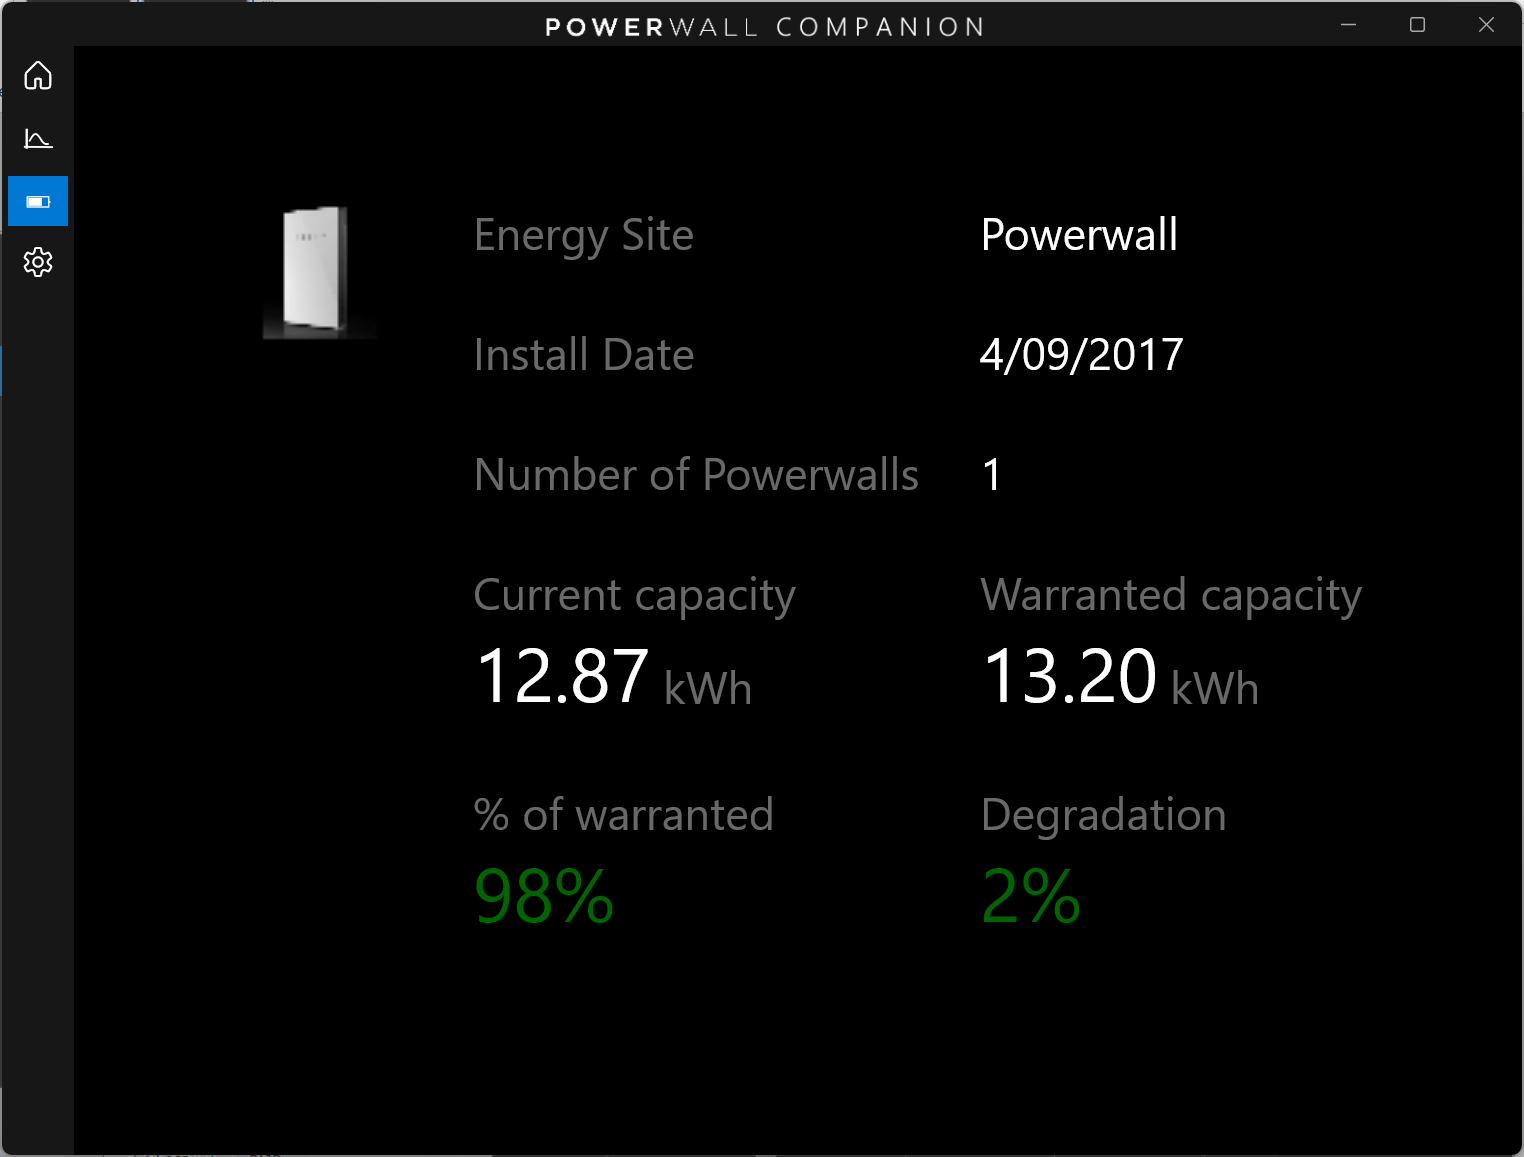
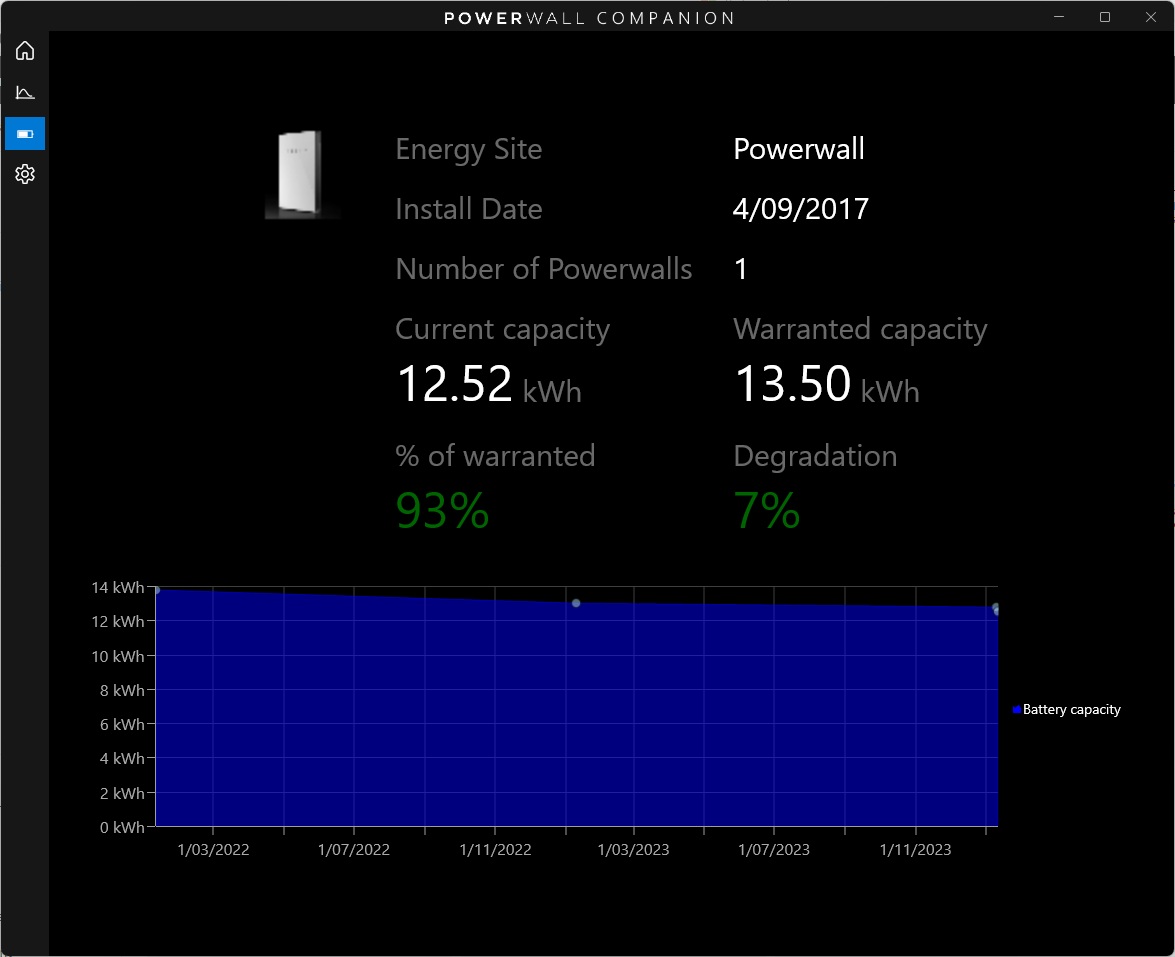
5.2 release - battery histroy

diff --git a/PowerwallCompanion/BatteryInfoPage.xaml b/PowerwallCompanion/BatteryInfoPage.xaml
@@ -17,8 +17,12 @@
         <converters:FalseToVisibilityCollapsedConverter x:Key="FalseToVisibilityCollapsedConverter"/>
         <converters:TrueToVisibilityCollapsedConverter x:Key="TrueToVisibilityCollapsedConverter"/>
     </Page.Resources>
-    
-    <Grid>
+
+    <Grid VerticalAlignment="Center">
+        <Grid.RowDefinitions>
+            <RowDefinition Height="Auto"/>
+            <RowDefinition />
+        </Grid.RowDefinitions>
         <VisualStateManager.VisualStateGroups>
             <VisualStateGroup x:Name="VisualStateGroup">
                 <VisualState x:Name="NarrowView">
@@ -39,7 +43,7 @@
                 </VisualState>
             </VisualStateGroup>
         </VisualStateManager.VisualStateGroups>
-        <Grid Grid.Row="0" HorizontalAlignment="Center" VerticalAlignment="Center" ColumnSpacing="40" RowSpacing="20">
+        <Grid Grid.Row="0" HorizontalAlignment="Center" VerticalAlignment="Center" ColumnSpacing="40" RowSpacing="20" Margin="20">
             <Grid.ColumnDefinitions>
                 <ColumnDefinition Width="120" x:Name="column1"/>
                 <ColumnDefinition Width="*"/>
@@ -51,7 +55,6 @@
                 <RowDefinition Height="Auto" />
                 <RowDefinition Height="Auto" />
                 <RowDefinition Height="Auto" />
-                <RowDefinition Height="*" />
             </Grid.RowDefinitions>
             
             <Image Source="Assets/StoreLogo.png" Grid.Row="0" Grid.RowSpan="2" Grid.Column="0"  Width="100" HorizontalAlignment="Right" VerticalAlignment="Top" />
@@ -93,52 +96,52 @@
                 <TextBlock FontSize="30" Text="Degradation" Foreground="DimGray"/>
                 <TextBlock FontSize="50" Text="{x:Bind ViewModel.Degradation,Mode=OneWay, Converter={StaticResource BatteryPercentageConverter}}" Foreground="{x:Bind ViewModel.CurrentCapacityPercent, Mode=OneWay, Converter={StaticResource BatteryCapacityToBrushConverter}}"></TextBlock>
             </StackPanel>
-
-            <chart:SfChart x:Name="batteryHistoryChart" MinHeight="100"  MaxHeight="300" Grid.Row="5" Grid.ColumnSpan="3" HorizontalAlignment="Center" Margin="20,10,20,10" Visibility="{x:Bind ViewModel.ShowChart, Converter={StaticResource FalseToVisibilityCollapsedConverter}, Mode=OneWay}">
-                <chart:SfChart.Behaviors>
-                    <chart:ChartTrackBallBehavior x:Name="batteryTrackBall" />
-                </chart:SfChart.Behaviors>
-
-                <chart:SfChart.PrimaryAxis>
-                    <chart:DateTimeAxis IntervalType="Months"  ShowTrackBallInfo="True" LabelFormat="d">
-                        <chart:DateTimeAxis.LabelStyle>
-                            <chart:LabelStyle Foreground="DarkGray" FontSize="16" />
-                        </chart:DateTimeAxis.LabelStyle>
-                    </chart:DateTimeAxis>
-                </chart:SfChart.PrimaryAxis>
-
-                <chart:SfChart.SecondaryAxis>
-                    <chart:NumericalAxis RangePadding="Auto" LabelFormat="0.## kWh" >
-                        <chart:NumericalAxis.LabelStyle>
-                            <chart:LabelStyle Foreground="DarkGray" FontSize="16"/>
-                        </chart:NumericalAxis.LabelStyle>
-                    </chart:NumericalAxis>
-                </chart:SfChart.SecondaryAxis>
-                <chart:SfChart.Legend>
-                    <chart:ChartLegend ToggleSeriesVisibility="False" DockPosition="Right" FontSize="14"  ItemMargin="10,0,0,0">
-                    </chart:ChartLegend>
-                </chart:SfChart.Legend>
-
-                <chart:AreaSeries  Stroke="Blue" StrokeThickness="1" Interior="Blue" BorderBrush="Blue" Opacity="0.5" ItemsSource="{x:Bind ViewModel.BatteryHistoryChartData, Mode=OneWay}" Label="Battery capacity" XBindingPath="XValue" YBindingPath="YValue">
-                    <chart:AreaSeries.AdornmentsInfo>
-                        <chart:ChartAdornmentInfo SymbolStroke="Black" SymbolInterior="LightBlue" SymbolWidth="10" SymbolHeight="10" Symbol="Ellipse"></chart:ChartAdornmentInfo>
-                    </chart:AreaSeries.AdornmentsInfo>
-                </chart:AreaSeries>
-
-            </chart:SfChart>
-
-            <StackPanel Grid.Row="5" Grid.Column="1" Grid.ColumnSpan="2" Visibility="{x:Bind ViewModel.StoreBatteryHistory, Converter={StaticResource TrueToVisibilityCollapsedConverter}, Mode=OneWay}">
-                <TextBlock FontSize="16" TextWrapping="Wrap" Margin="0,0,20,0" Foreground="LightGray">Powerwall Companion can track how your battery's reported capacity changes over time. 
-                    This history data is not made available by Tesla, so using this feature requires you to opt in to storing this
-                    data in the Powerwall Companion server. Data is updated monthly and requires you to open this page.</TextBlock>
-                <Button x:Name="enableBatteryHistory" Margin="10" Tapped="enableBatteryHistory_Tapped">Enable battery history</Button>
-            </StackPanel>
-
-            <StackPanel Grid.Row="5" Grid.Column="1" Grid.ColumnSpan="2" Visibility="{x:Bind ViewModel.ShowNotEnoughDataMessage, Converter={StaticResource FalseToVisibilityCollapsedConverter}, Mode=OneWay}">
-                <TextBlock FontSize="16" TextWrapping="Wrap" Margin="0,0,20,0" Foreground="LightGray">Battery capacity history is now enabled, but there isn't enough data
-                to show a chart just yet. Once we have over a month of data, a chart will show in this space!</TextBlock>
-            </StackPanel>
         </Grid>
-       
+        <chart:SfChart x:Name="batteryHistoryChart" MinHeight="100"  MaxHeight="300" Grid.Row="1" HorizontalAlignment="Center" Margin="20,10,20,10" Visibility="{x:Bind ViewModel.ShowChart, Converter={StaticResource FalseToVisibilityCollapsedConverter}, Mode=OneWay}">
+            <chart:SfChart.Behaviors>
+                <chart:ChartTrackBallBehavior x:Name="batteryTrackBall" />
+            </chart:SfChart.Behaviors>
+
+            <chart:SfChart.PrimaryAxis>
+                <chart:DateTimeAxis IntervalType="Months"  ShowTrackBallInfo="True" LabelFormat="d">
+                    <chart:DateTimeAxis.LabelStyle>
+                        <chart:LabelStyle Foreground="DarkGray" FontSize="16" />
+                    </chart:DateTimeAxis.LabelStyle>
+                </chart:DateTimeAxis>
+            </chart:SfChart.PrimaryAxis>
+
+            <chart:SfChart.SecondaryAxis>
+                <chart:NumericalAxis RangePadding="Auto" LabelFormat="0.## kWh" >
+                    <chart:NumericalAxis.LabelStyle>
+                        <chart:LabelStyle Foreground="DarkGray" FontSize="16"/>
+                    </chart:NumericalAxis.LabelStyle>
+                </chart:NumericalAxis>
+            </chart:SfChart.SecondaryAxis>
+            <chart:SfChart.Legend>
+                <chart:ChartLegend ToggleSeriesVisibility="False" DockPosition="Right" FontSize="14"  ItemMargin="10,0,0,0">
+                </chart:ChartLegend>
+            </chart:SfChart.Legend>
+
+            <chart:AreaSeries  Stroke="Blue" StrokeThickness="1" Interior="Blue" BorderBrush="Blue" Opacity="0.5" ItemsSource="{x:Bind ViewModel.BatteryHistoryChartData, Mode=OneWay}" Label="Battery capacity" XBindingPath="XValue" YBindingPath="YValue">
+                <chart:AreaSeries.AdornmentsInfo>
+                    <chart:ChartAdornmentInfo SymbolStroke="Black" SymbolInterior="LightBlue" SymbolWidth="10" SymbolHeight="10" Symbol="Ellipse"></chart:ChartAdornmentInfo>
+                </chart:AreaSeries.AdornmentsInfo>
+            </chart:AreaSeries>
+
+        </chart:SfChart>
+
+        <StackPanel Grid.Row="1" Visibility="{x:Bind ViewModel.StoreBatteryHistory, Converter={StaticResource TrueToVisibilityCollapsedConverter}, Mode=OneWay}">
+            <TextBlock FontSize="16" TextWrapping="Wrap" Margin="40,0,40,10" Foreground="LightGray">Powerwall Companion can track how your battery's reported capacity changes over time. 
+         This history data is not made available by Tesla, so using this feature requires you to opt in to storing this
+         data in the Powerwall Companion server. Data is updated monthly and requires you to open this page.</TextBlock>
+            <Button x:Name="enableBatteryHistory" Margin="40,0,0,0" Tapped="enableBatteryHistory_Tapped">Enable battery history</Button>
+        </StackPanel>
+
+        <Grid Grid.Row="1" Visibility="{x:Bind ViewModel.ShowNotEnoughDataMessage, Converter={StaticResource FalseToVisibilityCollapsedConverter}, Mode=OneWay}">
+            <Image Source="Assets/BatteryGraphBlur.png" HorizontalAlignment="Center" VerticalAlignment="Center"  MinHeight="100"  MaxHeight="300"/>
+            <TextBlock FontSize="16" TextWrapping="Wrap" Margin="120,0,60,0" Foreground="LightGray" HorizontalAlignment="Center" VerticalAlignment="Center">Battery capacity history is now enabled, but there isn't enough data
+     to show a chart just yet. The chart will show once we have over a month of data.</TextBlock>
+        </Grid>
+
     </Grid>
 </Page>

diff --git a/PowerwallCompanion/SettingsPage.xaml b/PowerwallCompanion/SettingsPage.xaml
@@ -37,8 +37,8 @@
 
             <CheckBox IsChecked="{x:Bind ViewModel.ShowClock, Mode=TwoWay}" Margin="5">Show clock on main page</CheckBox>
             <CheckBox IsChecked="{x:Bind ViewModel.PlaySounds, Mode=TwoWay}" Margin="5">Play sound on battery full/empty</CheckBox>
+            <CheckBox IsChecked="{x:Bind ViewModel.StoreBatteryHistory, Mode=TwoWay}" Margin="5">Store historical battery capacity in the cloud</CheckBox>
 
-            
             <TextBlock TextWrapping="Wrap" Foreground="Cyan" FontSize="14" Margin="5,20,5,20">
                 If you're enjoying this app, feel free to <Hyperlink NavigateUri="https://ko-fi.com/tomhollander">show your appreciation</Hyperlink>
             </TextBlock>

diff --git a/PowerwallCompanion/ViewModels/SettingsViewModel.cs b/PowerwallCompanion/ViewModels/SettingsViewModel.cs
@@ -45,6 +45,15 @@ namespace PowerwallCompanion.ViewModels
             }
         }
 
+        public bool? StoreBatteryHistory
+        {
+            get { return Settings.StoreBatteryHistory; }
+            set
+            {
+                Settings.StoreBatteryHistory = value.Value;
+            }
+        }
+
         public decimal GraphScale
         {
             get { return Settings.GraphScale; }
@@ -98,6 +107,7 @@ namespace PowerwallCompanion.ViewModels
             NotifyPropertyChanged(nameof(ShowClock));
             NotifyPropertyChanged(nameof(GraphScale));
             NotifyPropertyChanged(nameof(PlaySounds));
+            NotifyPropertyChanged(nameof(StoreBatteryHistory));
         }
 
         public event PropertyChangedEventHandler PropertyChanged;

diff --git a/PowerwallCompanion/BatteryInfoPage.xaml.cs b/PowerwallCompanion/BatteryInfoPage.xaml.cs
@@ -38,9 +38,9 @@ namespace PowerwallCompanion
             {
                 var tasks = new List<Task> { GetBatteryCapacity(), GetBatteryInfo() };
                 await Task.WhenAll(tasks);
-                await ProcessBatteryHistoryData();
-
                 ViewModel.NotifyAllProperties();
+
+                await ProcessBatteryHistoryData();
             }
             catch (System.Exception ex) 
             {
@@ -134,6 +134,7 @@ namespace PowerwallCompanion
 
         private void enableBatteryHistory_Tapped(object sender, Windows.UI.Xaml.Input.TappedRoutedEventArgs e)
         {
+            Analytics.TrackEvent("Battery history enabled");
             ViewModel.StoreBatteryHistory = true;
             ViewModel.NotifyChartProperties();
         }

diff --git a/PowerwallCompanion/ViewModels/BatteryInfoViewModel.cs b/PowerwallCompanion/ViewModels/BatteryInfoViewModel.cs
@@ -11,7 +11,10 @@ namespace PowerwallCompanion.ViewModels
 {
     public class BatteryInfoViewModel : INotifyPropertyChanged
     {
-
+        public BatteryInfoViewModel()
+        {
+            EnoughDataToShowChart = true; // Prevent flicker
+        }
         public string SiteName { get; set; }
         public int NumberOfBatteries { get; set; }
         public DateTime InstallDate { get; set; }

diff --git a/PowerwallCompanion/Licenses.cs b/PowerwallCompanion/Licenses.cs
@@ -13,5 +13,6 @@ namespace PowerwallCompanion
         public const string TeslaAppClientSecret = null;
         public const string TeslaAppRedirectUrl = null;
         public const string AppCenterKey = null;
+        public const string AppServicesKey = null;
     }
 }
